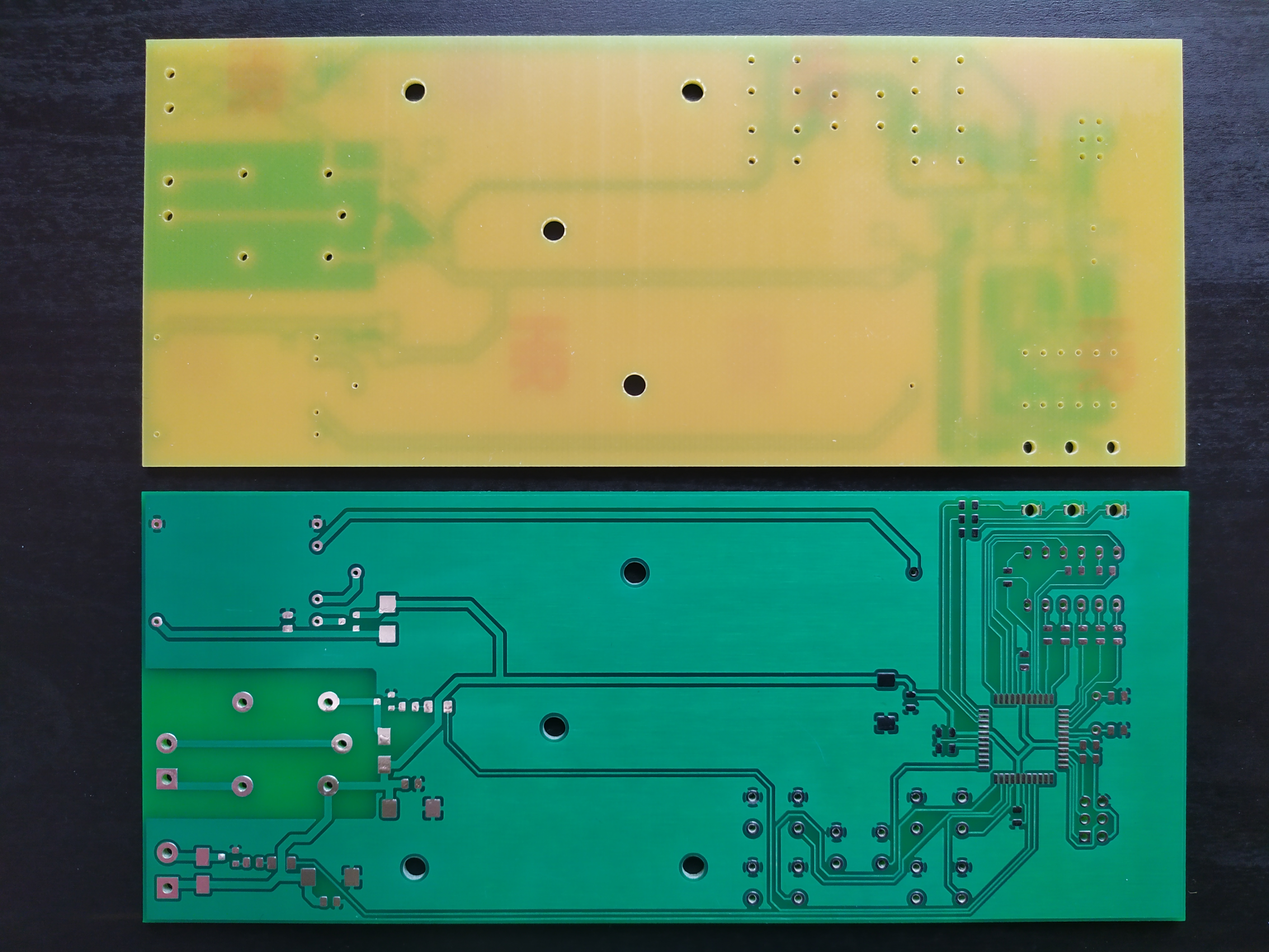
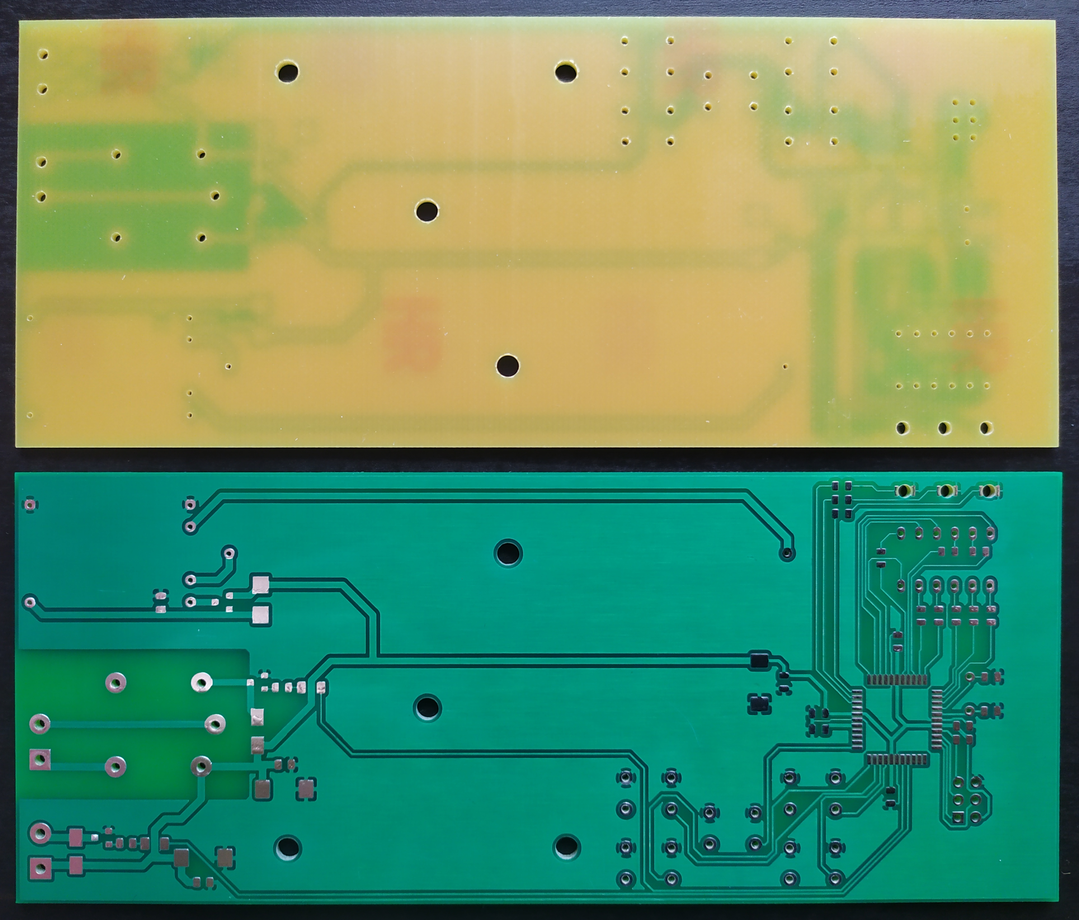
Updated PCB images
- Added assembled PCB photos
- Cropped PCB photo

diff --git a/README.md b/README.md
@@ -24,9 +24,12 @@ PCB of the Plant care system
 <img src="images/3d_board_5.png">
 <img src="images/3d_board_6.png">
 <img src="images/pcb_photo.jpg">
+<img src="images/assembled_pcb_photo_1.jpg">
+<img src="images/assembled_pcb_photo_2.jpg">
 
 ## External 3D models used in the PCB render
 
 - [TP4056 module](https://grabcad.com/library/03962a-hw107-lithium-battery-charging-module-1)
 - [18650 battery holder](https://grabcad.com/library/18650-single-slot-battery-holder-leaded-1)
 - [Terminal block](https://grabcad.com/library/degson-dg301-series-5-0mm-terminal-block-pack-1)
+
